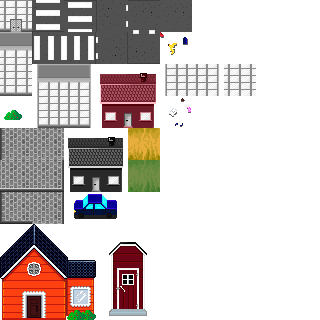
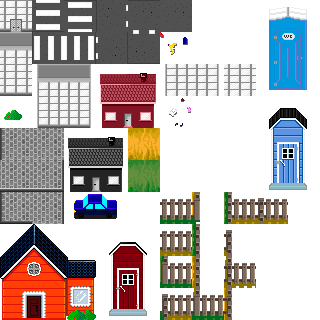
Click reading works

diff --git a/android/assets/rapujuhlat.tsx b/android/assets/rapujuhlat.tsx
@@ -1,0 +1,4 @@
+<?xml version="1.0" encoding="UTF-8"?>
+<tileset version="1.2" tiledversion="1.3.3" name="rapujuhlat" tilewidth="32" tileheight="32" tilecount="100" columns="10">
+ <image source="protopaletti.png" width="320" height="320"/>
+</tileset>

diff --git a/core/src/fi/tuni/game/CityScreen.java b/core/src/fi/tuni/game/CityScreen.java
@@ -5,10 +5,16 @@ import com.badlogic.gdx.Screen;
 import com.badlogic.gdx.graphics.OrthographicCamera;
 import com.badlogic.gdx.graphics.Texture;
 import com.badlogic.gdx.graphics.g2d.SpriteBatch;
+import com.badlogic.gdx.maps.MapLayer;
+import com.badlogic.gdx.maps.MapObjects;
+import com.badlogic.gdx.maps.objects.RectangleMapObject;
 import com.badlogic.gdx.maps.tiled.TiledMap;
 import com.badlogic.gdx.maps.tiled.TiledMapRenderer;
+import com.badlogic.gdx.maps.tiled.TiledMapTileLayer;
 import com.badlogic.gdx.maps.tiled.TmxMapLoader;
 import com.badlogic.gdx.maps.tiled.renderers.OrthogonalTiledMapRenderer;
+import com.badlogic.gdx.math.Rectangle;
+import com.badlogic.gdx.utils.Array;
 
 public class CityScreen implements Screen {
 
@@ -36,11 +42,15 @@ public class CityScreen implements Screen {
         camera.setToOrtho(false,         // y points up
                 WINDOW_WIDTH,            // width
                 WINDOW_HEIGHT);          // height
-        cityTiledMap = new TmxMapLoader().load("protoCity.tmx");
+        cityTiledMap = new TmxMapLoader().load("siti.tmx");
         cityTiledMapRenderer = new OrthogonalTiledMapRenderer(cityTiledMap, 1 / 100f);
 
         balanceBackground = new Texture("coin.png");
+
+
+
     }
+
 
     @Override
     public void show() {
@@ -49,9 +59,14 @@ public class CityScreen implements Screen {
 
     @Override
     public void render(float delta) {
-        batch.setProjectionMatrix(camera.combined);
         cityTiledMapRenderer.setView(camera);
         cityTiledMapRenderer.render();
+
+        if (Gdx.input.justTouched()) {
+            checkClick(Gdx.input.getX(), Gdx.input.getY());
+        }
+
+        //rahamäärä
         batch.setProjectionMatrix(fontCamera.combined);
         batch.begin();
         objectMain.getFont().draw(batch, Currency.getStringBalance(), 825, 615);
@@ -67,6 +82,42 @@ public class CityScreen implements Screen {
         if (objectMain.getSceneSwitch().getHappened()) {
             objectMain.switchScene();
             objectMain.getSceneSwitch().setHappened(false);
+        }
+
+
+
+    }
+
+    private void checkClick(float posX, float posY) {
+
+        // Let's get the collectable rectangles layer
+        MapLayer objectLayer = (MapLayer)cityTiledMap.getLayers().get("object");
+
+        //TiledMapTileLayer collectableCells = (TiledMapTileLayer) cityTiledMap.getLayers().get("huussi");
+        //System.out.println(collectableXPos + " " + collectableYPos);
+        //collectableCells.getCell(collectableXPos, collectableYPos).setTile(null);
+        //collectableCells.getCell(collectableXPos, collectableYPos + 1).setTile(null);
+
+        // All the rectangles of the layer
+        MapObjects mapObjects = objectLayer.getObjects();
+        // Cast it to RectangleObjects array
+        Array<RectangleMapObject> rectangleObjects = mapObjects.getByType(RectangleMapObject.class);
+
+        float width;
+        float height;
+        posY = WINDOW_HEIGHT*100-posY;
+
+        // Iterate all the rectangles
+        for (RectangleMapObject rectangleObject : rectangleObjects) {
+            Rectangle tmp = rectangleObject.getRectangle();
+
+            width = tmp.getX() + tmp.getWidth();
+            height = tmp.getY() + tmp.getHeight();
+
+            if (tmp.getX() < posX && width > posX
+                        && tmp.getY() < posY && height > posY) {
+                System.out.println("hit");
+            }
         }
     }
 

diff --git a/core/src/fi/tuni/game/Clickable.java b/core/src/fi/tuni/game/Clickable.java
@@ -19,7 +19,6 @@ public class Clickable extends Actor {
         setBounds(11.9f,5.5f, getWidth(), getHeight());
         addListener(new InputListener() {
             public boolean touchDown(InputEvent event, float x, float y, int pointer, int button) {
-                System.out.println("here");
                 happened = true;
                 ParallelAction parallel = new ParallelAction();
                 Clickable.this.addAction(parallel);

diff --git a/core/src/fi/tuni/game/FieldScreen.java b/core/src/fi/tuni/game/FieldScreen.java
@@ -53,10 +53,8 @@ public class FieldScreen implements Screen {
 
     @Override
     public void render(float delta) {
-
         fieldtiledMapRenderer.setView(camera);
         fieldtiledMapRenderer.render();
-
 
         //rahamäärä
         batch.setProjectionMatrix(fontCamera.combined);
